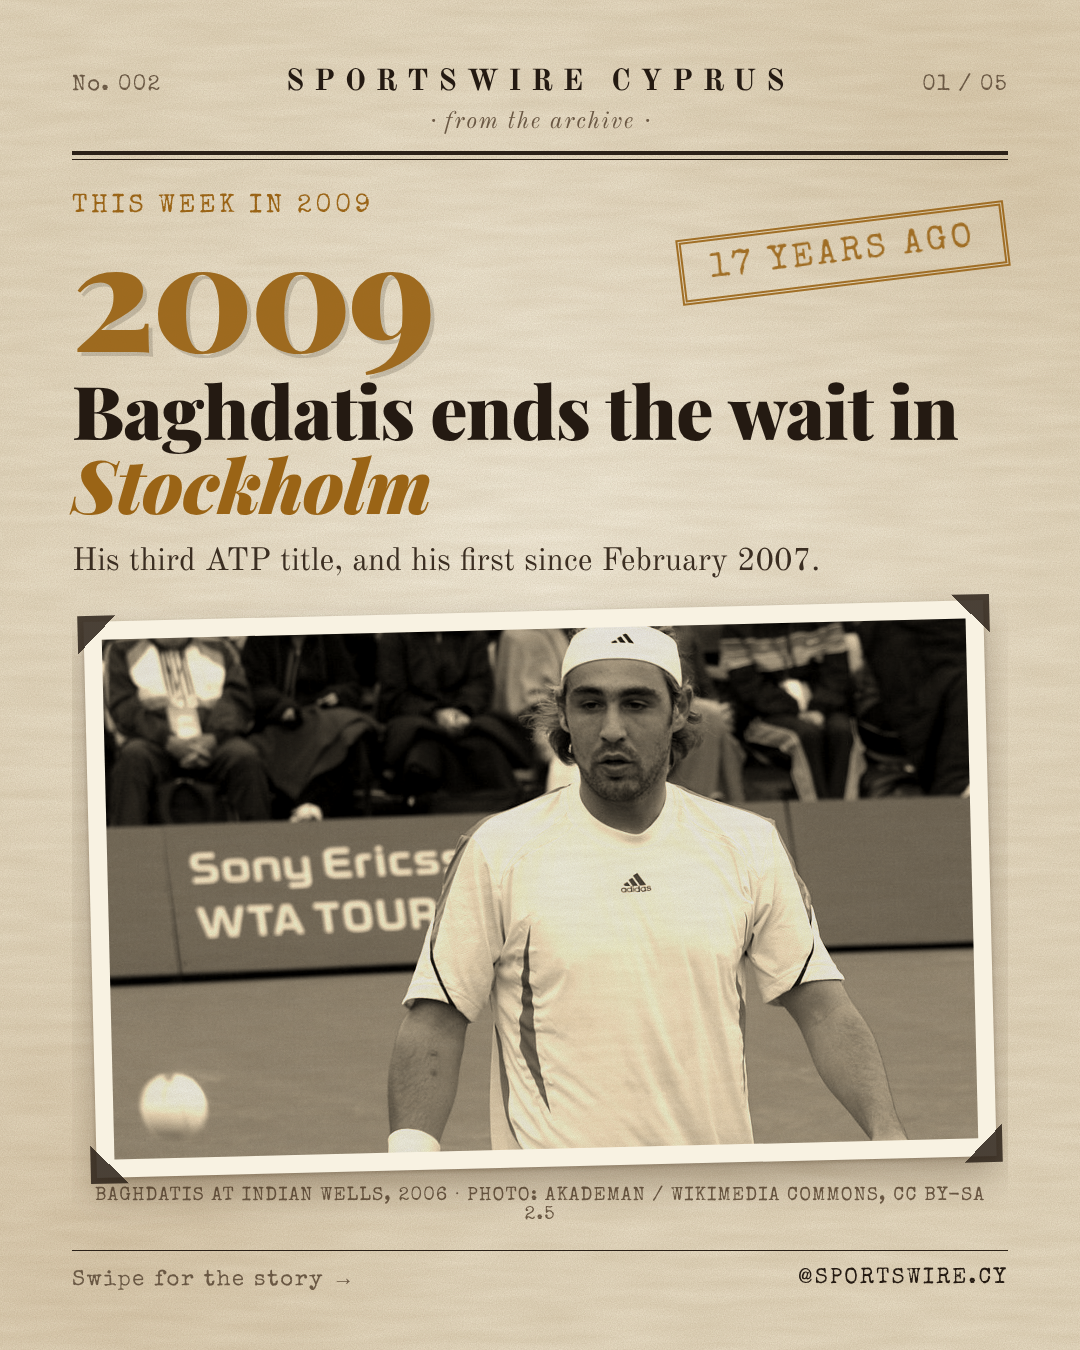
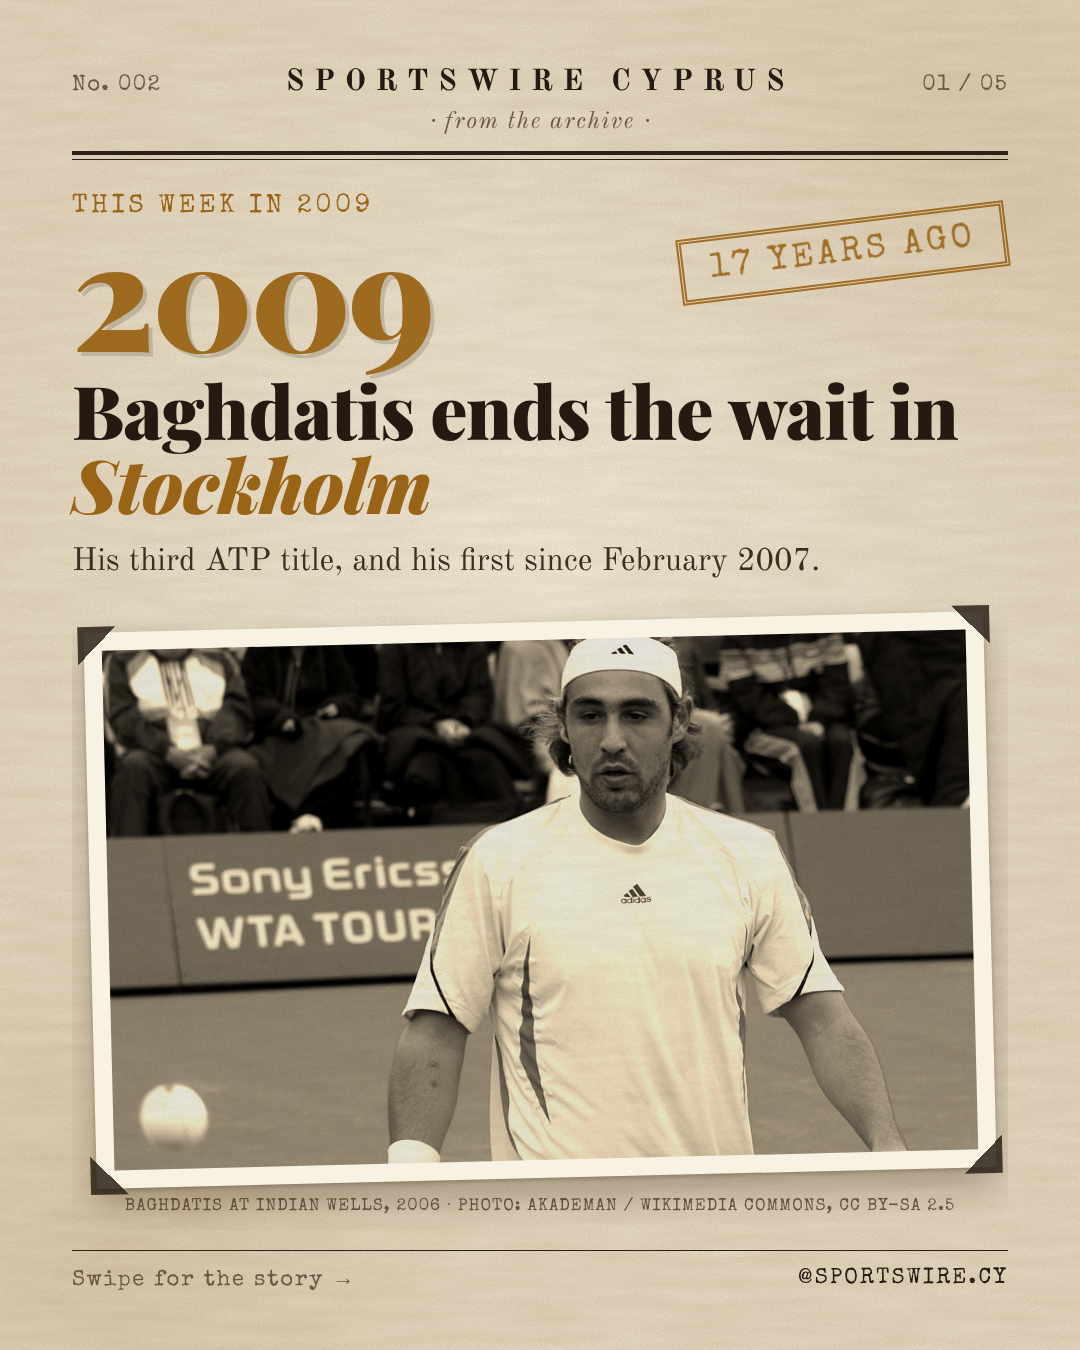
sportswire: archive tools tweaks (credit parsing), LB Asian Cup PASS, Baghdatis built, Doueihi photo
Claude-Session: https://claude.ai/code/session_016T4zKQNuiPuFGi6oC67faR

Changed region(s): [[0.0611, 0.4356, 0.9472, 0.9022]]

diff --git a/sportswire/tools/archive.py b/sportswire/tools/archive.py
@@ -80,7 +80,8 @@ def photo_block(ph: dict, w: int, h: int, tilt: float = -1.4) -> tuple[str, list
              f'<div class="pimg" style="height:{h}px;background-image:url({f.as_uri()});background-position:{fx}% {fy}%"></div>'
              f'<div class="pgrain"></div><span class="corner tl"></span><span class="corner tr"></span>'
              f'<span class="corner bl"></span><span class="corner br"></span></figure>'
-             f'<div class="pcap">{esc((ph["note"] + " · ").upper()) if ph.get("note") else ""}{esc(("PHOTO: " + credit).upper()) if credit else ""}</div>')
+             f'<div class="pcap" style="font-size:{17 if len(credit) + len(ph.get("note", "")) > 60 else 19}px">'
+             f'{esc((ph["note"] + " · ").upper()) if ph.get("note") else ""}{esc(("PHOTO: " + credit).upper()) if credit else ""}</div>')
     return html_, probs
 
 

diff --git a/sportswire/tools/archive_photo.py b/sportswire/tools/archive_photo.py
@@ -111,6 +111,9 @@ def credit_of(i: dict) -> str:
     if i.get('attribution'):  # the attribution the author asked for, when Commons gives one
         return f"{i['attribution']} / Wikimedia Commons"
     author = i['author'] or 'Unknown author'
+    u = re.match(r'https?://(?:www\.)?flickr\.com/(?:photos|people)/([^/\s]+)', author)  # Flickr profile URL -> username
+    if u:
+        author = u.group(1)
     m = re.search(r'User:([^\s)|\]]+)', author)  # "me ( w:User:Akademan )" -> "Akademan"
     if m:
         author = m.group(1).replace('_', ' ')
